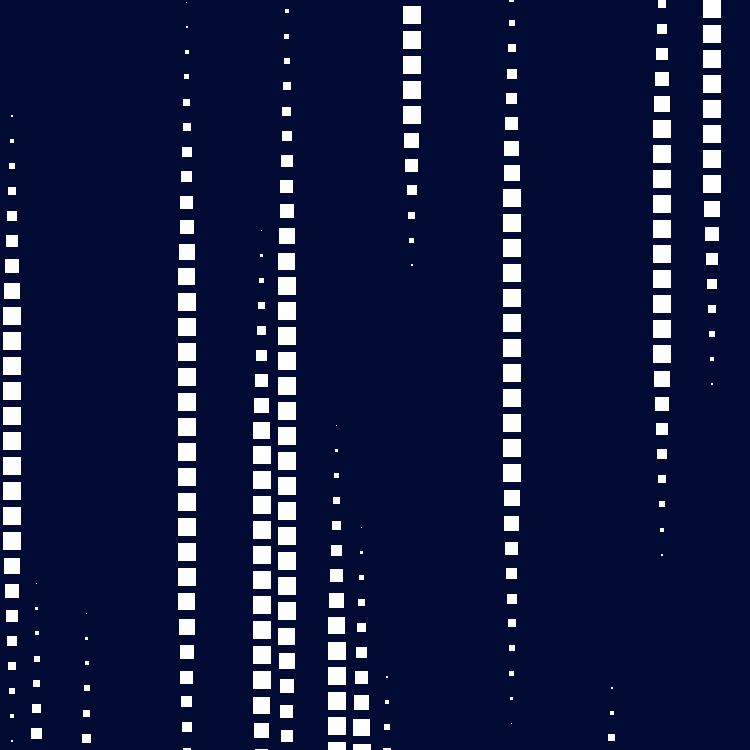
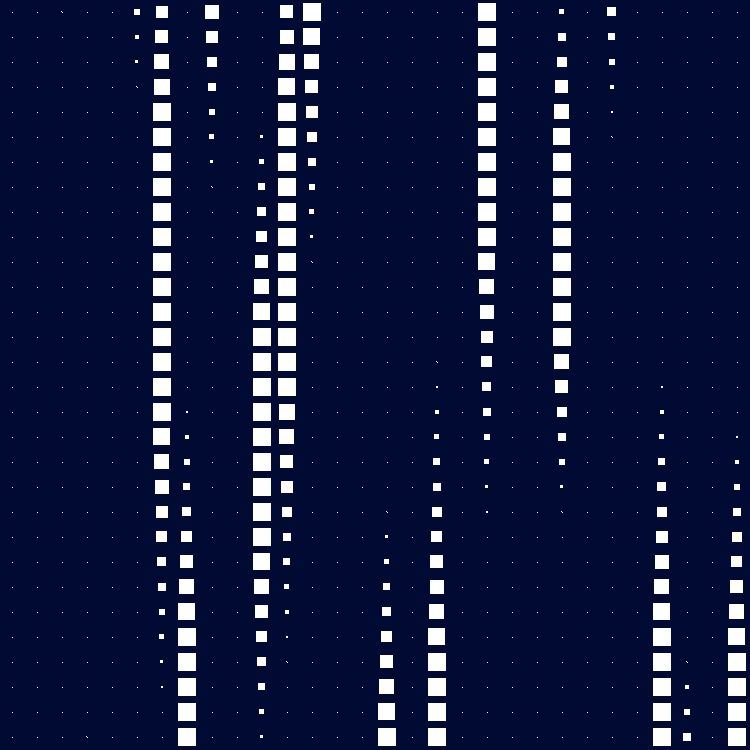
new version of the streamline animation conforming to a regular grid

diff --git a/streaming.py b/streaming.py
@@ -7,6 +7,11 @@ from math import floor
 from animate import square
 
 class Stream():
+    """A stream has basically a length and a size function.
+
+    The stream can move acros the screen as time evolves. The position of the stream 
+    and its size function is used to compute the size of the blocks.
+    """
 
     STREAM_LENGTH = 31  # odd number of rows that spans a stream
     STREAM_LENGTH_STD = 10
@@ -22,7 +27,7 @@ class Stream():
         if length % 2 == 0:
             length += 1
         self.length = length
-        self.row = - (self.length - 1) / 2
+        self.position = - (self.length - 1) / 2 * SIZE
         if velocity is None:
             velocity = self.STREAM_VELOCITY
         self.velocity = velocity
@@ -30,8 +35,16 @@ class Stream():
         self.sizes = [self.size(i) for i in range(self.length)]
 
     def __repr__(self):
-        out = 'Stream of length %d at (%d, %d), Active=%s' % (self.length, self.col, self.row, self.active)
-        return out
+        out = ['Stream of length %d in column %d' % (self.length, self.col),
+               'position = %d pixels, velocity=%d pixel / s' % (self.position, self.velocity),
+               'active=%s' % self.active]
+        return "\n".join(out)
+
+    def get_head(self):
+        return self.position + self.length / 2 * SIZE
+        
+    def get_tail(self):
+        return self.position - self.length / 2 * SIZE
 
     @staticmethod
     def pick_length():
@@ -41,29 +54,31 @@ class Stream():
     def pick_velocity():
         return np.random.randint(Stream.STREAM_VELOCITY - Stream.STREAM_VELOCITY_STD, Stream.STREAM_VELOCITY + Stream.STREAM_VELOCITY_STD)
 
-    def size(self, i):
+    def size(self, row):
+        i = (row - self.position / SIZE) + self.length / 2
         # triangle
         #return 2 * np.abs(i / (STREAM_LENGTH - 1) - np.floor(i / (STREAM_LENGTH - 1) + 0.5)) * SIZE
         # piece-wise 3
         f = 0.735
         if i < self.length / 3:
-            return (i / (self.length / 3) ) * f * SIZE
+            return max((i / (self.length / 3) ) * f * SIZE, 1)
         elif i < 2 * self.length / 3:
             return f * SIZE
         else:
-            return (1 - (i - 2 * self.length / 3) / (self.length / 3)) * f * SIZE
+            return max((1 - (i - 2 * self.length / 3) / (self.length / 3)) * f * SIZE, 1)
 
     def blit(self, surface, color):
-        for i in range(self.length):
-            shape = square(self.sizes[i], color)
-            surface.blit(shape, (self.col * SIZE + SIZE / 2 - self.sizes[i] / 2, self.row - self.sizes[i] / 2 + (i - (self.length - 1) / 2) * SIZE))
+        for row in range(N_ROWS):
+            sz = self.size(row)
+            shape = square(sz, color)
+            surface.blit(shape, ((self.col + 0.5) * SIZE - sz / 2, (row + 0.5) * SIZE - sz / 2))
 
 N_COLS = 30
 N_ROWS = 30
-SIZE = 25
+SIZE = 25  # pixels
 DS = 0.5  # second, time sparating two streams
 FPS = 20
-save_screenshot = True
+save_screenshot = False
 
 def blit_shape(surface, rect, color):
     """
@@ -114,7 +129,7 @@ def streaming():
                     break
         t = pg.time.get_ticks()  # in ms
         screen.fill(marine)
-        '''
+        #'''
         xy = np.empty((2, N_ROWS, N_COLS), dtype=int)
         rec1 = square(1, white)
         for i in range(N_ROWS):
@@ -122,15 +137,15 @@ def streaming():
                 xy[0, i, j] = (2 * j + 1) * (SIZE / 2)
                 xy[1, i, j] = (2 * i + 1) * (SIZE / 2)
                 screen.blit(rec1, (xy[0, i, j], xy[1, i, j]))
-        '''
+        #'''
         # update stream positions
         dt = (t - last_t) / 1000
         for stream in streams:
         	if stream.active == True:
-        	    stream.row = stream.row + dt * stream.velocity
-        	    if stream.row > (N_ROWS + 0.5 * stream.length) * SIZE:
+        	    stream.position = stream.position + dt * stream.velocity  # pixels
+        	    if stream.get_tail() > N_ROWS * SIZE:
         	    	# deactivate this stream
-        	    	stream.row = - (stream.length - 1) / 2
+        	    	stream.position = - (stream.length - 1) / 2 * SIZE
         	    	stream.active = False
         	last_t = t
         # a new stream is activated every DS second
